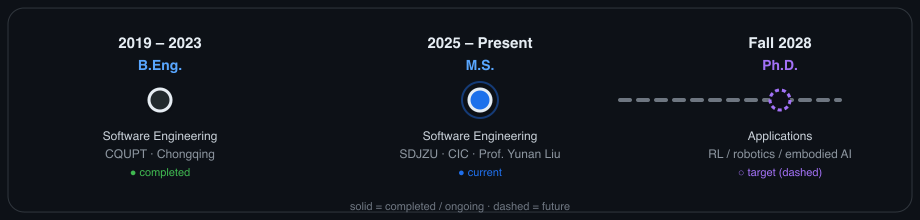
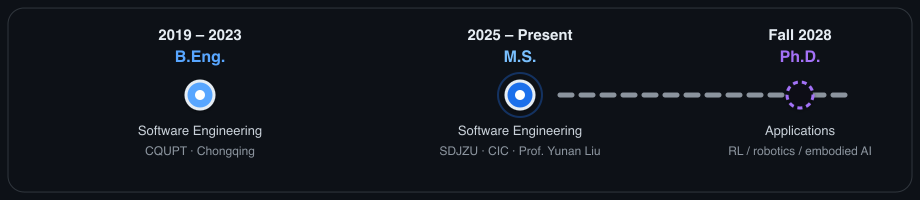
fix: education timeline solid through BE/MS; remove footer legend

diff --git a/README.md b/README.md
@@ -71,7 +71,7 @@ Interested in groups on offline RL, world models, and embodied AI.
 
 <!-- Horizontal-style timeline: past = solid nodes, future = dashed -->
 <p align="center">
-<img src="./assets/education_timeline.png" alt="Education timeline" width="900"/>
+<img src="./assets/education_timeline.png?v=3" alt="Education timeline" width="900"/>
 </p>
 
 <details>
